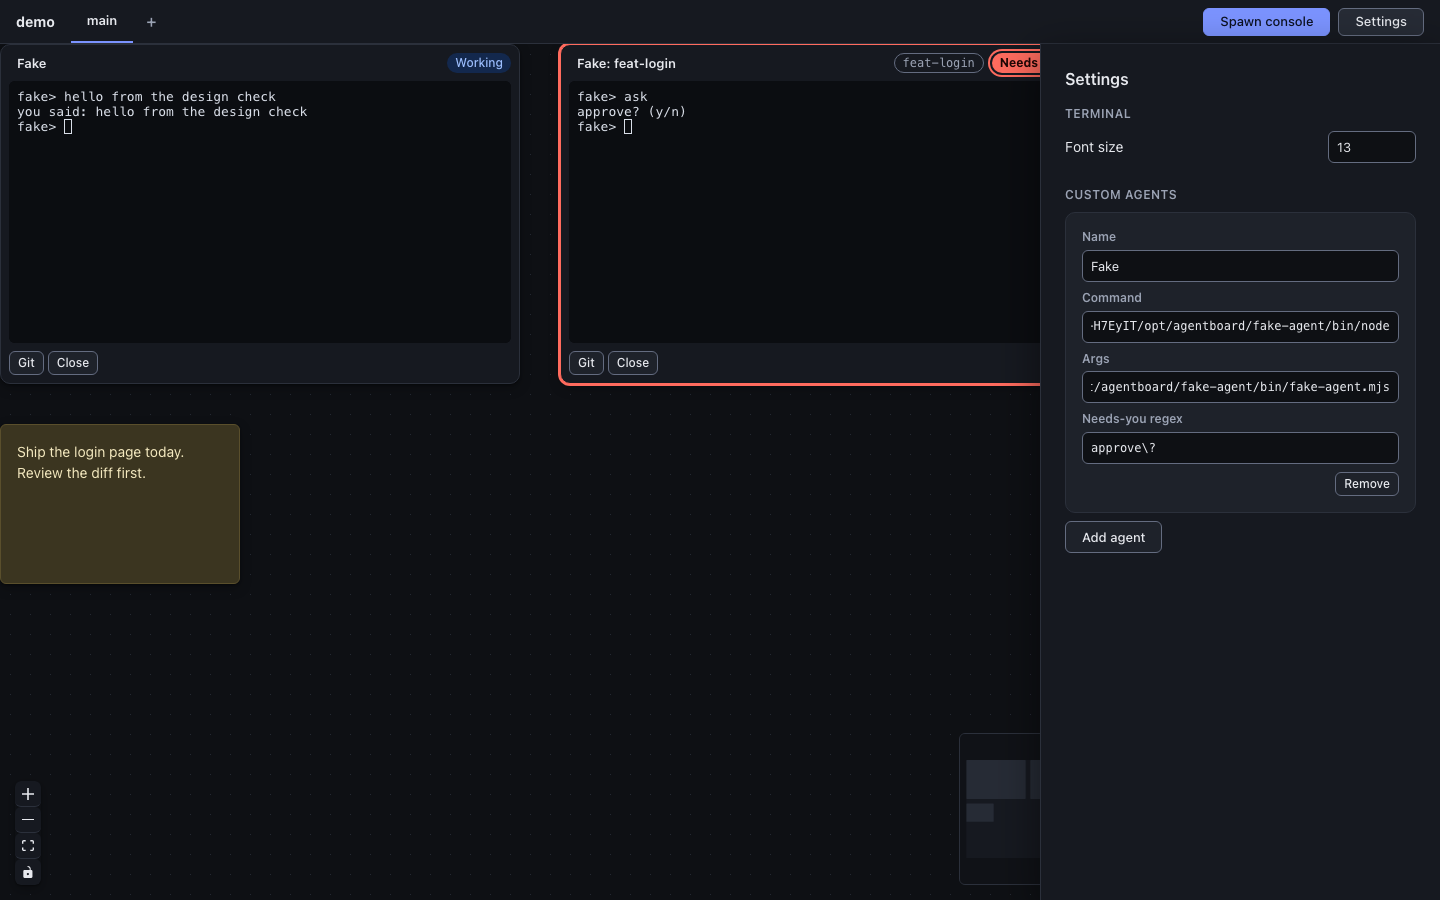
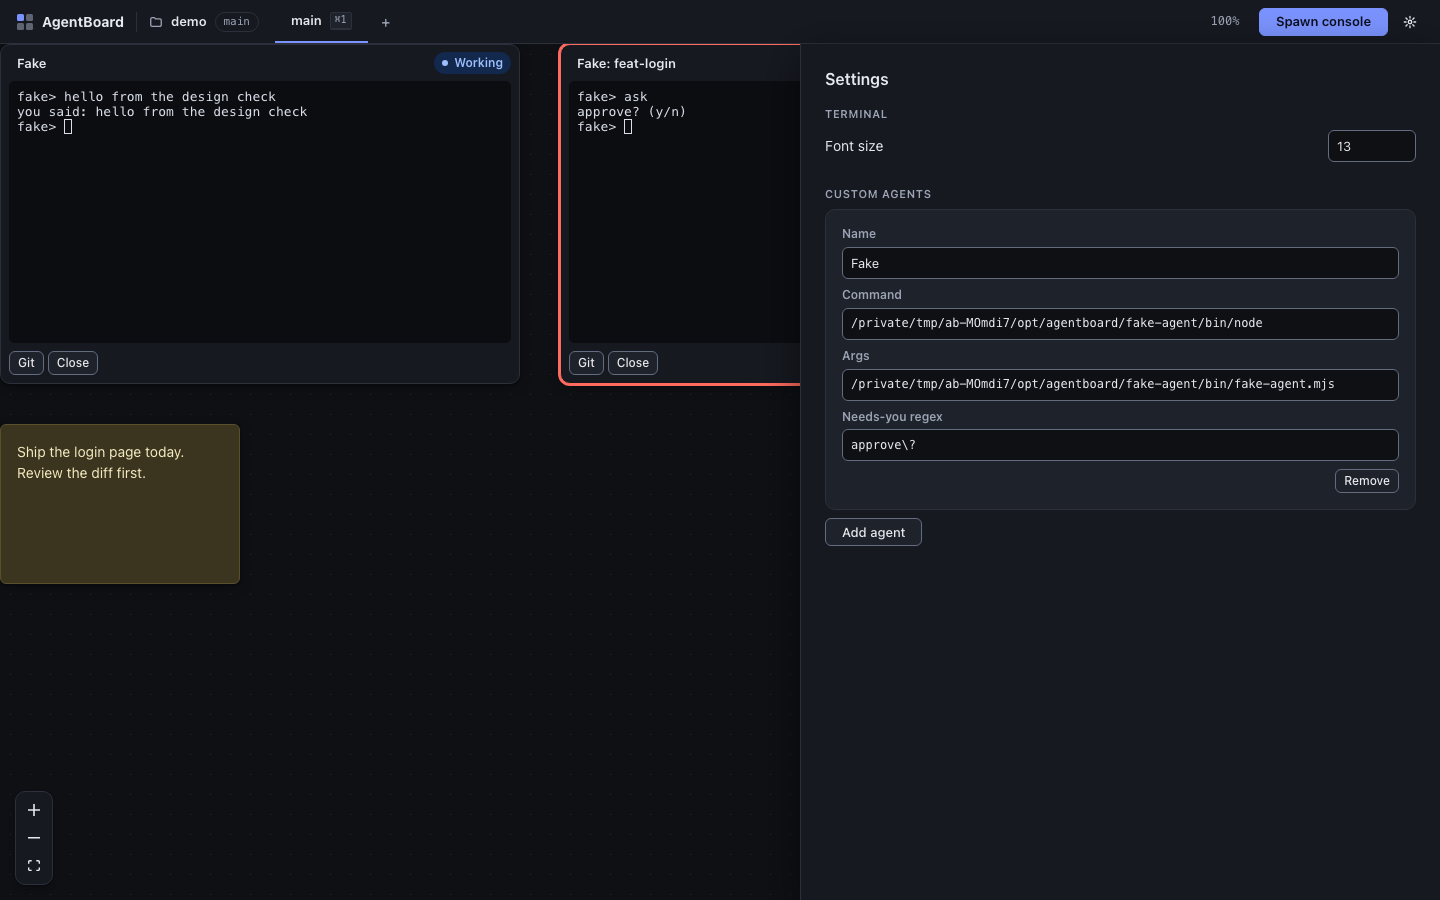
chore: design README gains the primitives, type scale, agent marks and keys; screenshots retaken with a launch page shot

diff --git a/docs/design/shots.ts b/docs/design/shots.ts
@@ -117,4 +117,12 @@ test("screenshots", async ({ page }) => {
   await expect(nodes.nth(0).getByText("Now with a second line.")).toBeVisible();
   await page.waitForTimeout(300);
   await page.screenshot({ path: out("05-git-card") });
+
+  // The launch page: the page without a repo, with demo as the one recent repo.
+  if (process.env.SHOTS !== "before") {
+    await page.goto(new URL("/", page.url()).href);
+    await expect(page.getByLabel("repo path")).toBeVisible();
+    await page.waitForTimeout(300);
+    await page.screenshot({ path: out("07-launch") });
+  }
 });

diff --git a/docs/design/README.md b/docs/design/README.md
@@ -1,23 +1,85 @@
 # AgentBoard design
 
+The source is the owner's "AgentBoard Screens" canvas, row 01 (D45): `Foundations` (the token sheet), `Launch`, `Board-Empty` and `Main`, with the spawn dialog, settings drawer and console card artboards beside them.
+
 The board's look lives in three sheets under `packages/ui/src/styles`, imported once by `main.tsx` after the app so they follow React Flow's and xterm's own sheets:
 
-- `tokens.css`: every colour, space, radius and font as a CSS variable. Dark is the default; `prefers-color-scheme: light` swaps the colours.
-- `base.css`: element defaults (in `:where()`, so any class wins), buttons (`.btn-primary`, `.btn-sm`, `.btn-icon`), inputs, focus rings, chips, field labels, the path field.
-- `app.css`: one section per component: app shell and top bar, overlays (spawn modal, settings drawer), React Flow on the tokens, status badge, console card, note, mission map, settings, git card and diff.
+- `tokens.css`: every colour, space, radius, font and control size as a CSS variable. Dark is the default; `prefers-color-scheme: light` swaps the colours.
+- `base.css`: element defaults (in `:where()`, so any class wins), focus rings, and the shared primitives below. Other components use these instead of local copies.
+- `app.css`: one section per component: launch page, app shell and top bar, empty board, overlays (spawn modal, settings drawer), React Flow on the tokens, console card, note, mission map, settings, git card and diff.
 
 Components carry class names only; no colour or size is written inline. Roles, labels and accessible names are unchanged, so the tests and the e2e selectors still find everything.
+
+## Primitives (base.css)
+
+| Class | Look |
+|---|---|
+| `.btn` (every `<button>` by default) | 28 px tall, 6 px radius, 1 px `--color-border-strong`, raised surface, 13 px / 500 |
+| `.btn-primary` | accent fill, `--color-on-accent` text, 600 |
+| `.btn-quiet` | transparent, no border, muted text |
+| `.btn-danger` | `--color-danger` border and text |
+| `.btn-sm` | 24 px tall, 12 px text |
+| `.btn-icon` | 28 x 28, needs an `aria-label` |
+| `.input` (every text field by default) | 32 px tall, 6 px radius, `--color-bg` fill |
+| `.card` | surface, 1 px `--color-border`, 10 px radius, `--shadow-card` |
+| `.chip` | 20 px pill, mono 11 px, 1 px `--color-border`, muted |
+| `.kbd` | 18 px key cap, mono 10 px, 2 px bottom border |
+| `.pill` `.st-<status>` | 22 px, 12 / 600, a 6 px dot and a tint per status; `.st-needs_you` is solid, ringed (`0 0 0 2px` surface, `0 0 0 3px` needs-you) and has no dot. `StatusBadge` renders it. |
+| `.mark` `.mark-<agent>` | the agent mark (below). `AgentMark` renders it. |
+| `.label` | 11 / 600, caps, letter-spacing 0.06em, muted |
+| `.caption` | 12, muted |
+| `.mono` `.muted` `.sr-only` | monospace 12, muted text, visually hidden |
+
+Icons are inline 14 px stroke SVGs with `aria-hidden` (`packages/ui/src/board/icons.tsx`), never emoji or a vendor logo. The logo is four squares, one in the accent.
+
+## Type scale
+
+| Use | Size / weight |
+|---|---|
+| Panel title (`.title`) | 20 / 700, letter-spacing -0.01em |
+| Dialog title | 18 / 700 |
+| Section (`.section-heading`) | 16 / 600 |
+| Body | 14 |
+| UI (buttons, rows) | 13 |
+| Caption (`.caption`) | 12, muted |
+| Label (`.label`) | 11 / 600, caps, 0.06em, muted |
+| Terminal | 12 / 1.6, monospace |
+
+## Agent marks
+
+One 20 x 20 rounded square with an 11 px JetBrains Mono bold letter, `aria-hidden` (the agent's name always sits beside it). `<AgentMark agent="claude" />` for a built-in agent; any other string is a custom agent's name and shows its first letter.
+
+| Agent | Letter | Dark fg / bg | Light fg / bg |
+|---|---|---|---|
+| claude | C | `#f2c98a` / `#3a2a12` | `#6b4210` / `#fbe9cc` |
+| codex | X | `#7ee787` / `#10331f` | `#13623a` / `#d9f5e3` |
+| gemini | G | `#9dbfff` / `#13284d` | `#1d3f9e` / `#dde7ff` |
+| opencode | O | `#d2a8ff` / `#2c1f4a` | `#5a2a9c` / `#efe3ff` |
+| custom | first letter | `#c0c6d1` / `#2a2f39` | `#3c4350` / `#e6e9ee` |
+
+## Keyboard
+
+| Key | Does | Where |
+|---|---|---|
+| ⌘1 to ⌘9 | switch to that workspace (each tab shows its key cap) | anywhere but a focused terminal or field |
+| ⌘⇧N | open the spawn dialog | anywhere (a browser may keep it: Chrome opens a private window) |
+| N | add a note in the middle of the view | anywhere but a focused terminal or field |
+| Esc | close the spawn dialog or the settings drawer; focus goes back to the opener | the drawer ignores an Escape typed into a terminal |
+
+Controls inside the board (zoom buttons, mission-map rows, empty-board actions, tabs) draw their focus ring inset, so the canvas edge never clips it.
 
 ## Tokens
 
 | Group | Token | Value |
 |---|---|---|
 | Space (8 px grid) | `--space-half` `--space-1` `--space-2` `--space-3` `--space-4` `--space-6` | 4 8 16 24 32 48 px |
-| Radius | `--radius-xs` `--radius-sm` `--radius-lg` `--radius-pill` | 2 px (resize handles), 6 px (controls, terminal, notes), 10 px (cards, modal), 999 px (pills) |
-| Font | `--font-sans` | Inter (self-hosted from `@fontsource-variable/inter`), then the system-ui stack |
-| | `--font-mono` | JetBrains Mono (`@fontsource-variable/jetbrains-mono`), then ui-monospace, Menlo, …; the terminal uses it too |
-| | `--text-2xs` `--text-xs` `--text-sm` `--text-md` `--text-lg` `--text-xl` | 11 (caps labels) 12 13 14 16 20 (panel titles) px |
-| Layout | `--topbar-height` `--rail-width` `--drawer-width` | 44 264 400 px |
+| Radius | `--radius-xs` `--radius-sm` `--radius-lg` `--radius-pill` | 2 px (resize handles, key caps), 6 px (controls, terminal, notes, marks), 10 px (cards, modal), 999 px (pills) |
+| Font | `--font-sans` | Inter, system-ui, … (used when installed; nothing is fetched) |
+| | `--font-mono` | "JetBrains Mono", ui-monospace, Menlo, … (the terminal keeps `Menlo, monospace`) |
+| | `--text-2xs` `--text-xs` `--text-sm` `--text-md` `--text-lg` `--text-xl` `--text-2xl` | 11 12 13 14 16 18 20 px |
+| Controls | `--control-height` `--control-height-sm` `--input-height` | 28 24 32 px |
+| | `--chip-height` `--pill-height` `--kbd-height` `--mark-size` | 20 22 18 20 px |
+| Layout | `--topbar-height` `--rail-width` `--drawer-width` | 44 264 640 px |
 
 | Colour | Dark (default) | Light |
 |---|---|---|
@@ -43,13 +105,6 @@ Components carry class names only; no colour or size is written inline. Roles, l
 | `--status-needs-you-fg` / `-bg` | `#1f0604` / `#ff6b5e` | `#ffffff` / `#c62a1f` |
 | `--status-stopped-fg` / `-bg` | `#c0c6d1` / `#2a2f39` | `#3c4350` / `#e6e9ee` |
 | `--status-exited-fg` / `-bg` | `#a3abbb` / `#22262e` | `#555e6e` / `#eceef2` |
-| `--mark-claude-fg` / `-bg` | `#f2c98a` / `#3a2a12` | `#6b4500` / `#fdf0c2` |
-| `--mark-codex-fg` / `-bg` | `#7ee787` / `#10331f` | `#13623a` / `#d9f5e3` |
-| `--mark-gemini-fg` / `-bg` | `#9dbfff` / `#13284d` | `#1d3f9e` / `#dde7ff` |
-| `--mark-opencode-fg` / `-bg` | `#d2a8ff` / `#2c1f4a` | `#5a2ca0` / `#ece0ff` |
-| `--mark-custom-fg` / `-bg` | `#c0c6d1` / `#2a2f39` | `#3c4350` / `#e6e9ee` |
-
-Agent marks are a 20 px monogram (`.mark.mark-<agent>`: C, X, G, O, ?) in an ANSI hue at the left of the console header, never a vendor logo.
 
 Needs you is the loudest state on screen: a solid fill (every other status is a tint), bold, ringed; its console card gets a 2 px ring in the same colour and its mission-map dot a halo.
 
@@ -88,10 +143,10 @@ Needs you is the loudest state on screen: a solid fill (every other status is a 
 | `--term-ansi-cyan` / `bright-cyan` on `--term-bg` | 12.9 / 15.5:1 | same |
 | `--term-ansi-white` / `bright-white` on `--term-bg` | 14.4 / 19.4:1 | same |
 | `--term-ansi-bright-black` on `--term-bg` | 6.3:1 | same |
-| `--mark-claude-fg` on `--mark-claude-bg` | 8.9:1 | 7.4:1 |
+| `--mark-claude-fg` on `--mark-claude-bg` | 8.9:1 | 7.3:1 |
 | `--mark-codex-fg` on `--mark-codex-bg` | 9.0:1 | 6.4:1 |
 | `--mark-gemini-fg` on `--mark-gemini-bg` | 7.9:1 | 7.5:1 |
-| `--mark-opencode-fg` on `--mark-opencode-bg` | 7.7:1 | 7.2:1 |
+| `--mark-opencode-fg` on `--mark-opencode-bg` | 7.7:1 | 7.6:1 |
 | `--mark-custom-fg` on `--mark-custom-bg` | 7.8:1 | 8.2:1 |
 
 ANSI black is left out on purpose: programs paint it as a background.
@@ -120,3 +175,6 @@ SHOTS=before npx playwright test -c docs/design/playwright.config.ts # before-*.
 | Settings | ![](before-04-settings.png) | ![](04-settings.png) |
 | Git card | ![](before-05-git-card.png) | ![](05-git-card.png) |
 | Light theme | | ![](06-three-consoles-light.png) |
+| Launch page | | ![](07-launch.png) |
+
+The before column is the board as it stood after L1A to L1C (v0.1.0); the after column is the redesign from the Screens canvas.
